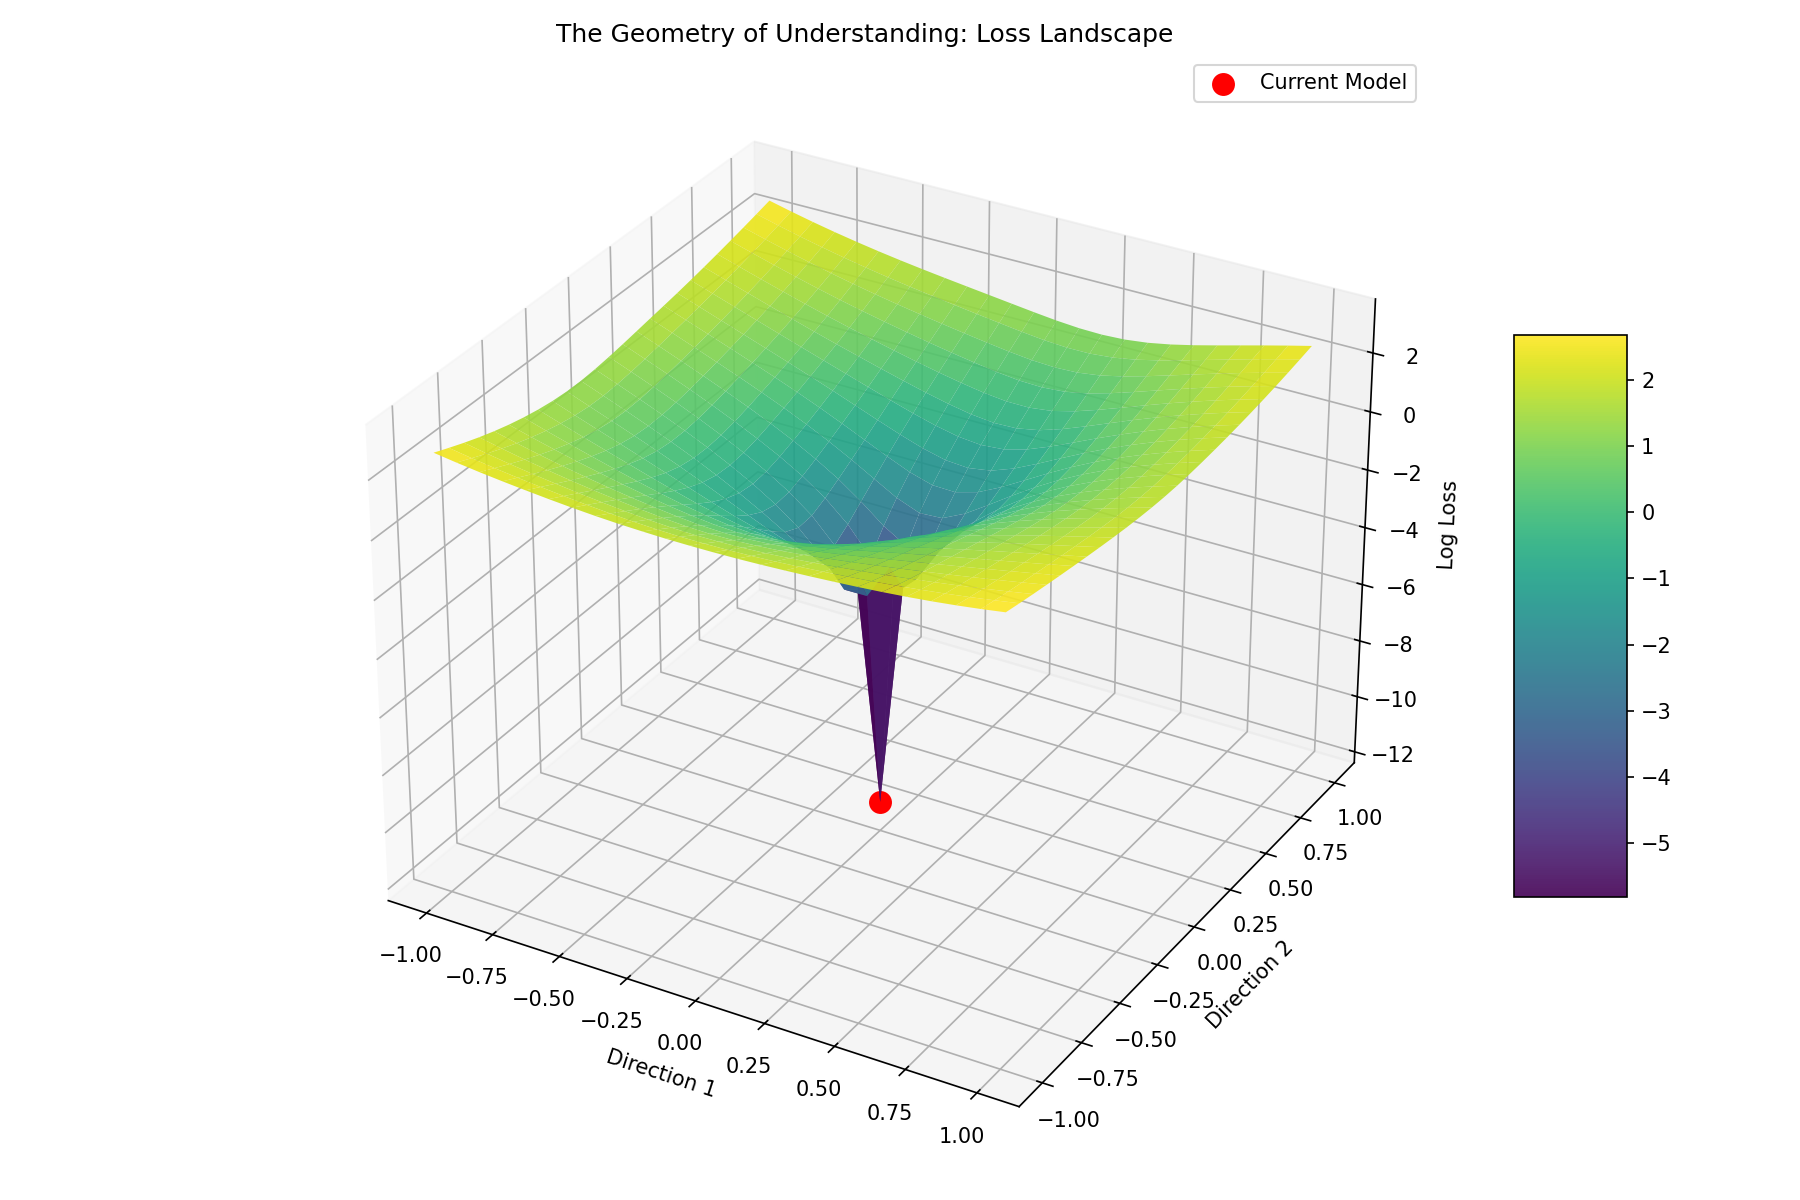
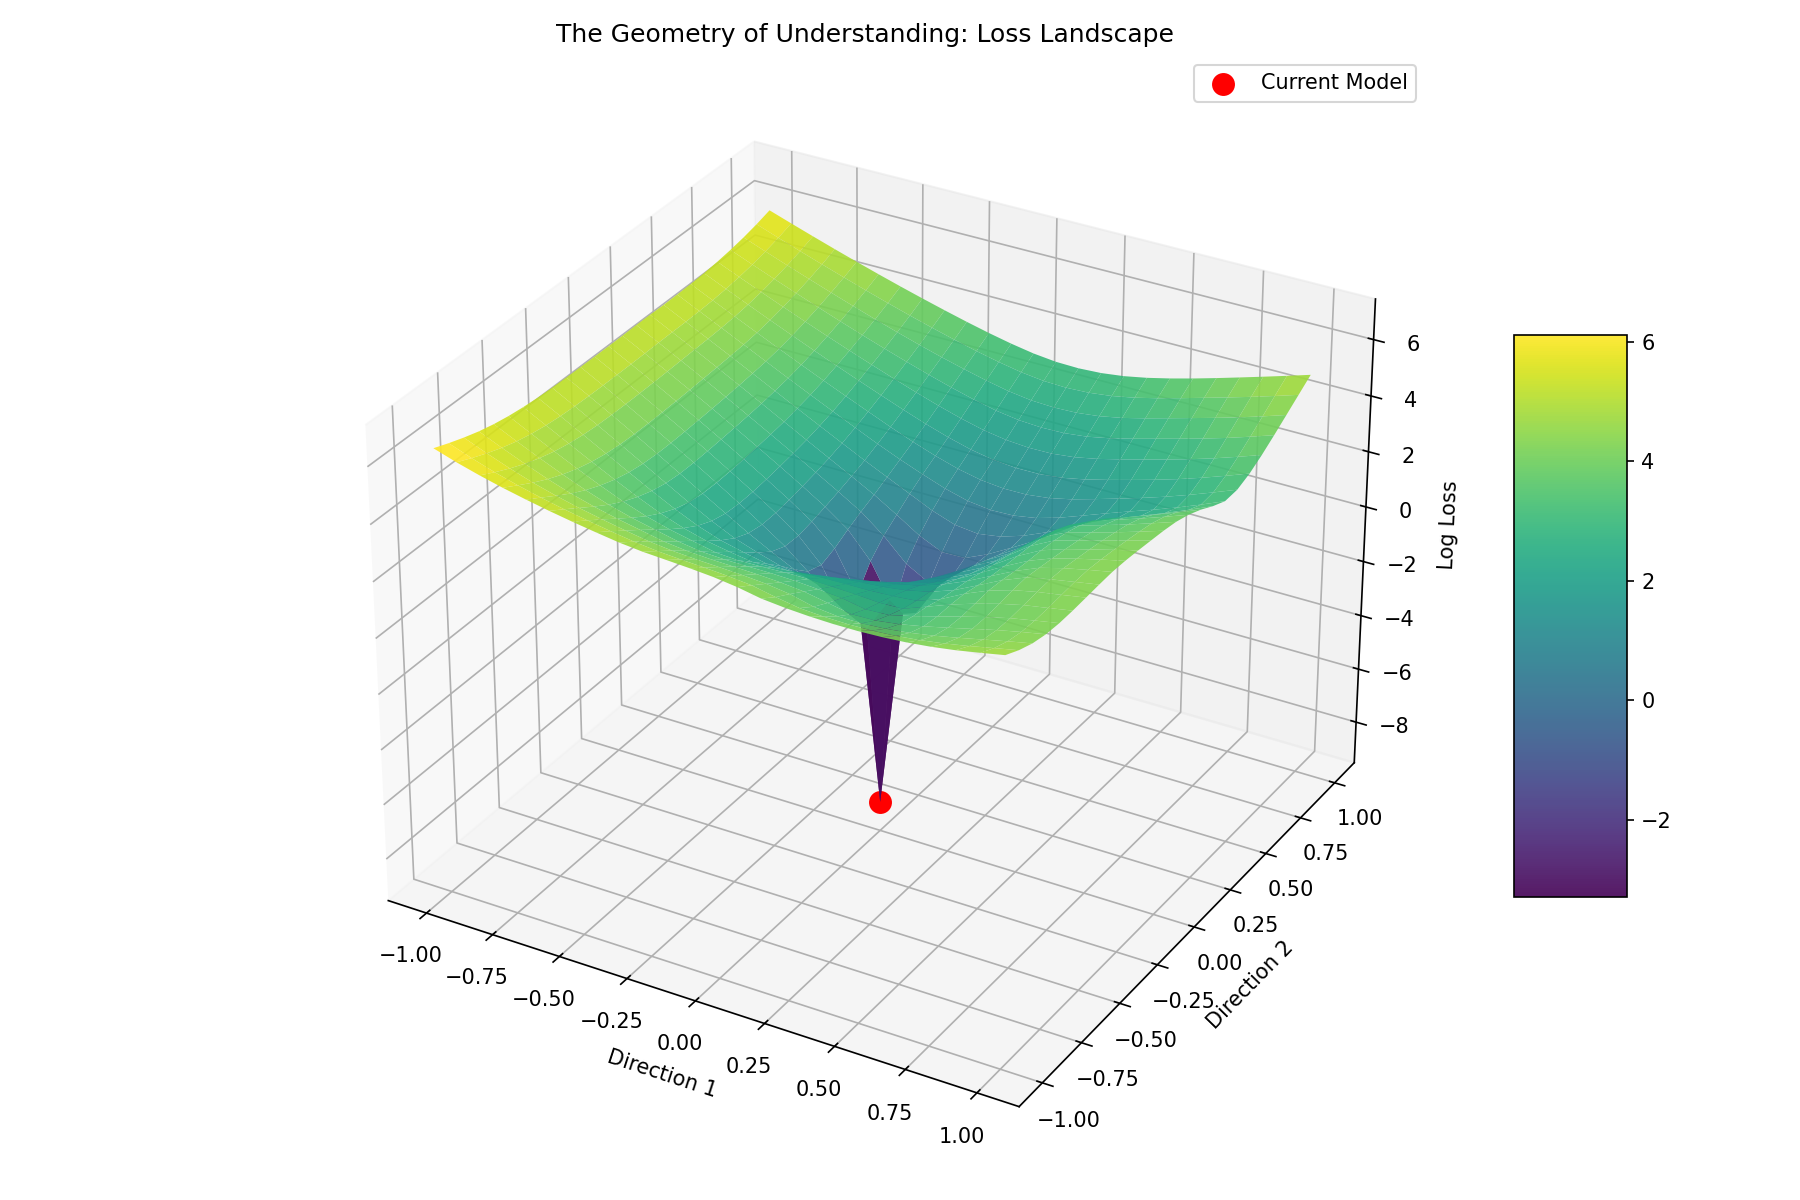
generalized config directories

diff --git a/scripts/deep_interp.py b/scripts/deep_interp.py
@@ -1,78 +1,125 @@
+import sys
+import os
 import torch
 import numpy as np
 import pandas as pd
 import matplotlib.pyplot as plt
-import os
+
+# --- STANDARD HEADER START ---
+# Add parent directory to path to find config.py and climate_nn.py
+sys.path.append(os.path.abspath(os.path.join(os.path.dirname(__file__), '..')))
+# --- STANDARD HEADER END ---
+
+# [NEW] Import paths and loaders from the central config/utility
+from config import MODEL_PATH, DATA_PATH, FIGURES_DIR
 from climate_nn import load_model_from_checkpoint
 
 def deep_interpretability_analysis():
-    checkpoint_path = '../networks/climate_model.pt'
-    if not os.path.exists(checkpoint_path):
-        print("Model file not found.")
+    # 1. Validation of Paths
+    if not os.path.exists(MODEL_PATH):
+        print(f"Model file not found at: {MODEL_PATH}")
         return
 
-    csv_path = '../training_sets/ebm_0d_model_v1_climate_data_1M.csv'
-    if not os.path.exists(csv_path):
-        print("Model file not found.")
+    if not os.path.exists(DATA_PATH):
+        print(f"Data file not found at: {DATA_PATH}")
         return
 
-    # 1. Load Model and Data
+    # 2. Load Model
     try:
-        model, checkpoint = load_model_from_checkpoint(checkpoint_path)
+        model, checkpoint = load_model_from_checkpoint(MODEL_PATH)
+        print(f"Loaded model from {MODEL_PATH}")
     except Exception as e:
         print(f"Error loading model: {e}")
         return
 
-    
-    df = pd.read_csv(csv_path).sample(10000) # Sample for speed
-    scaler_X = checkpoint['scaler_X']
-    X_scaled = torch.FloatTensor(scaler_X.transform(df[['Ts', 'log_pCO2', 'S0']].values))
+    # 3. Load Data
+    # Use pandas directly as in original script, but use DATA_PATH
+    try:
+        # Sample for speed, just like original
+        df = pd.read_csv(DATA_PATH).sample(10000, random_state=42) 
+    except Exception as e:
+        print(f"Error loading data CSV: {e}")
+        return
 
-    # 2. Get Activations for Layer 0 (Senses) and Layer 3 (Logic)
+    # Prepare inputs using the scaler saved with the model
+    scaler_X = checkpoint['scaler_X']
+    X_input = df[['Ts', 'log_pCO2', 'S0']].values
+    X_scaled = torch.FloatTensor(scaler_X.transform(X_input))
+
+    # 4. Get Activations
+    # We need 'relu_0' (Layer 1 sensors) and 'relu_3' (Deep Logic)
     with torch.no_grad():
         acts = model.get_hidden_activations(X_scaled)
     
     # --- PART 1: SCATTER PLOTS (The Shape of a Law) ---
     fig, (ax1, ax2) = plt.subplots(1, 2, figsize=(14, 5))
     
-    # Plot Neuron 3 (Your Ice Detector) vs Albedo
-    ax1.scatter(df['Albedo'], acts['relu_0'][:, 3], alpha=0.4, s=2, color='blue')
+    # Retrieve activations (converting to numpy)
+    layer0_acts = acts['relu_0'].numpy()
+    
+    # Plot Neuron 3 (Ice Detector) vs Albedo
+    ax1.scatter(df['Albedo'], layer0_acts[:, 3], alpha=0.4, s=2, color='blue')
     ax1.set_title("Neuron 3 Activation vs. Physical Albedo")
     ax1.set_xlabel("True Albedo (EBM Law)")
     ax1.set_ylabel("Neuron 3 'Firing' Strength")
     
-    # Plot Neuron 0 (Your Greenhouse Sensor) vs Emissivity
-    ax2.scatter(df['Emissivity'], acts['relu_0'][:, 0], alpha=0.4, s=2, color='red')
+    # Plot Neuron 0 (Greenhouse Sensor) vs Emissivity
+    ax2.scatter(df['Emissivity'], layer0_acts[:, 0], alpha=0.4, s=2, color='red')
     ax2.set_title("Neuron 0 Activation vs. Physical Emissivity")
     ax2.set_xlabel("True Emissivity (EBM Law)")
     ax2.set_ylabel("Neuron 0 'Firing' Strength")
     
     plt.tight_layout()
-    plt.savefig('figures/neuron_scatter_shapes.png')
-    print("Saved scatter plots to figures/neuron_scatter_shapes.png")
+    scatter_path = os.path.join(FIGURES_DIR, 'neuron_scatter_shapes.png')
+    plt.savefig(scatter_path)
+    print(f"Saved scatter plots to {scatter_path}")
 
     # --- PART 2: THE DEEP LAYER CORRELATION ---
-    # We repeat your heatmap logic but for 'relu_3'
+    # We repeat your heatmap logic but for 'relu_3' (Layer 4)
+    if 'relu_3' not in acts:
+        print("Warning: 'relu_3' not found in activations. Your model might be shallower than expected.")
+        return
+
     deep_acts = acts['relu_3'].numpy()
+    n_neurons = deep_acts.shape[1]
+    
     results = []
-    for i in range(8):
+    for i in range(n_neurons):
+        # Calculate correlations with ground truth physics
+        a = deep_acts[:, i]
+        
+        # Handle dead neurons (constant output) to avoid division by zero
+        if np.std(a) < 1e-9:
+            c_ts, c_alb, c_emiss, c_ntoa = 0,0,0,0
+        else:
+            c_ts = np.corrcoef(a, df['Ts'])[0,1]
+            c_alb = np.corrcoef(a, df['Albedo'])[0,1]
+            c_emiss = np.corrcoef(a, df['Emissivity'])[0,1]
+            c_ntoa = np.corrcoef(a, df['N_toa'])[0,1]
+            
         results.append({
             'neuron': i,
-            'corr_Ts': np.corrcoef(deep_acts[:, i], df['Ts'])[0,1],
-            'corr_Albedo': np.corrcoef(deep_acts[:, i], df['Albedo'])[0,1],
-            'corr_Emissivity': np.corrcoef(deep_acts[:, i], df['Emissivity'])[0,1],
-            'corr_N_toa': np.corrcoef(deep_acts[:, i], df['N_toa'])[0,1]
+            'corr_Ts': c_ts,
+            'corr_Albedo': c_alb,
+            'corr_Emissivity': c_emiss,
+            'corr_N_toa': c_ntoa
         })
     
     df_deep = pd.DataFrame(results)
+    
     plt.figure(figsize=(8, 6))
     plt.imshow(df_deep[['corr_Ts', 'corr_Albedo', 'corr_Emissivity', 'corr_N_toa']].values, 
                cmap='RdBu_r', vmin=-1, vmax=1, aspect='auto')
     plt.colorbar(label='Correlation')
     plt.xticks(range(4), ['Ts', 'Albedo', 'Emissivity', 'N_toa'])
+    plt.yticks(range(n_neurons))
+    plt.xlabel("Physical Variable")
+    plt.ylabel("Neuron Index")
     plt.title('DEEP LAYER (relu_3) Specialization\n(Note the increased complexity)')
-    plt.savefig('figures/deep_layer_correlations.png')
-    print("Saved deep correlation map to figures/deep_layer_correlations.png")
+    
+    heatmap_path = os.path.join(FIGURES_DIR, 'deep_layer_correlations.png')
+    plt.savefig(heatmap_path)
+    print(f"Saved deep correlation map to {heatmap_path}")
 
 if __name__ == "__main__":
     deep_interpretability_analysis()

diff --git a/scripts/loss_landscape.py b/scripts/loss_landscape.py
@@ -1,11 +1,14 @@
+import sys
 import torch
 import copy
 import numpy as np
 import matplotlib.pyplot as plt
 from torch.utils.data import DataLoader
 import os
+sys.path.append(os.path.abspath(os.path.join(os.path.dirname(__file__), '..')))
 
 # Import the model structure from your other script
+from config import MODEL_PATH, DATA_PATH, FIGURES_DIR
 from climate_nn import load_model_from_checkpoint, load_and_split_data
 
 def get_random_direction(model):
@@ -130,26 +133,28 @@ def plot_landscape_contour(alphas, betas, loss_surface, savepath):
     print(f"Saved contour map to {savepath}")
 
 if __name__ == "__main__":
-    # Setup
-    CSV_PATH = "../training_sets/ebm_0d_model_v1_climate_data_1M.csv"
-    checkpoint_path = '../networks/climate_model.pt'
-    
-    # 1. Load Data
-    print("Loading data...")
-    if not os.path.exists(CSV_PATH):
-        raise FileNotFoundError(f"{CSV_PATH} not found. Run climate_nn.py first.")
+    # 1. Load Data using Global Config Path
+    print(f"Loading data from {DATA_PATH}...")
+    if not os.path.exists(DATA_PATH):
+        print(f"Error: Data file not found at {DATA_PATH}")
+        sys.exit(1)
 
-    _, val_ds = load_and_split_data(CSV_PATH)
+    # We only need validation data to check the landscape quality
+    _, val_ds = load_and_split_data(DATA_PATH)
     # Use a subset of validation data for faster plotting
     val_loader = DataLoader(val_ds, batch_size=5000, shuffle=False)
     
-    # 2. Load Your Model
-    print("Loading model...")
-     try:
-        model, checkpoint = load_model_from_checkpoint(checkpoint_path)
+    # 2. Load Model using Global Config Path
+    print(f"Loading model from {MODEL_PATH}...")
+    if not os.path.exists(MODEL_PATH):
+        print(f"Error: Model file not found at {MODEL_PATH}")
+        sys.exit(1)
+
+    try:
+        model, checkpoint = load_model_from_checkpoint(MODEL_PATH)
     except Exception as e:
         print(f"Error loading model: {e}")
-        return
+        sys.exit(1)
 
     
     # 3. Compute Landscape
@@ -157,5 +162,6 @@ if __name__ == "__main__":
     alphas, betas, Z = compute_loss_surface(model, val_loader, range_val=1.0, steps=25)
     
     # 4. Visualize
-    plot_landscape_3d(alphas, betas, Z, '../figures/landscape_3d.png')
-    plot_landscape_contour(alphas, betas, Z, '../figures/landscape_contour.png')
+    # Use global FIGURES_DIR for saving
+    plot_landscape_3d(alphas, betas, Z, os.path.join(FIGURES_DIR, 'landscape_3d.png'))
+    plot_landscape_contour(alphas, betas, Z, os.path.join(FIGURES_DIR, 'landscape_contour.png'))

diff --git a/scripts/neuron_ablation.py b/scripts/neuron_ablation.py
@@ -3,18 +3,20 @@ import numpy as np
 import matplotlib.pyplot as plt
 import copy
 import os
+import sys
+sys.path.append(os.path.abspath(os.path.join(os.path.dirname(__file__), '..')))
+from config import MODEL_PATH, FIGURES_DIR
 from climate_nn import load_model_from_checkpoint
 
 def run_dual_ablation():
     # 1. Setup
-    checkpoint_path = '../networks/climate_model.pt'
-    if not os.path.exists(checkpoint_path):
-        print("Model file not found.")
+    if not os.path.exists(MODEL_PATH):
+        print(f"Model file not found at: {MODEL_PATH}")
         return
 
     # Load Model & Scalers
     try:
-        model, checkpoint = load_model_from_checkpoint(checkpoint_path)
+        model_base, checkpoint = load_model_from_checkpoint(MODEL_PATH)
     except Exception as e:
         print(f"Error loading model: {e}")
         return
@@ -71,8 +73,10 @@ def run_dual_ablation():
     plt.title('Mechanistic Interpretability: Impact of Targetted Neuron Removal')
     plt.legend()
     plt.grid(True, alpha=0.2)
-    plt.savefig('figures/dual_ablation_results.png')
+    save_path = os.path.join(FIGURES_DIR, 'dual_ablation_results.png')
+    plt.savefig(save_path)
+    print(f"Saved ablation response curve to {save_path}")
     plt.show()
 
 if __name__ == "__main__":
-    run_dual_surgery()
+    run_dual_ablation()

diff --git a/scripts/trace_circuit.py b/scripts/trace_circuit.py
@@ -1,17 +1,19 @@
 import torch
 import os
 import pandas as pd
+import sys
+sys.path.append(os.path.abspath(os.path.join(os.path.dirname(__file__), '..')))
+from config import MODEL_PATH, FIGURES_DIR
 from climate_nn import load_model_from_checkpoint
 
 def trace_circuit():
-    checkpoint_path = '../networks/climate_model.pt'
-    if not os.path.exists(checkpoint_path):
-        print("Model file not found.")
+    if not os.path.exists(MODEL_PATH):
+        print(f"Model file not found at: {MODEL_PATH}")
         return
 
     # 1. Load the model
     try:
-        model, checkpoint = load_model_from_checkpoint(checkpoint_path)
+        model, checkpoint = load_model_from_checkpoint(MODEL_PATH)
     except Exception as e:
         print(f"Error loading model: {e}")
         return

diff --git a/config.py b/config.py
@@ -7,7 +7,7 @@ import os
 # These settings define the architecture for NEW models you train.
 DEFAULT_MODEL_CONFIG = {
     'input_dim': 3,
-    'hidden_dims': [8, 8, 8, 8],
+    'hidden_dims': [4, 4, 4, 4],
     'output_dim': 3,
     'activation': 'ReLU'  # easy toggle: 'Tanh', 'GELU', 'Sigmoid'
 }
@@ -18,8 +18,8 @@ DEFAULT_MODEL_CONFIG = {
 # Change these filenames to switch the entire lab's focus 
 # without editing individual analysis scripts.
 
-ACTIVE_MODEL_FILENAME = 'climate_model.pt'
-ACTIVE_DATA_FILENAME = 'ebm_0d_model_v1_climate_data_1M.csv'
+ACTIVE_MODEL_FILENAME = 'ebm_0d_model_v1_nn.pt'
+ACTIVE_DATA_FILENAME = 'ebm_0d_model_v1_climate_data.csv'
 
 # =========================================================
 # 3. AUTOMATIC PATH GENERATION (The Address Book)

diff --git a/scripts/inspect_neuron_3.py b/scripts/inspect_neuron_3.py
@@ -1,16 +1,17 @@
 import torch
 import os
+ys.path.append(os.path.abspath(os.path.join(os.path.dirname(__file__), '..')))
+from config import MODEL_PATH, FIGURES_DIR
 from climate_nn import load_model_from_checkpoint
 
 def inspect_neuron_3():
-    checkpoint_path = '../networks/climate_model.pt'    
-    if not os.path.exists(checkpoint_path):
-        print("Error: Model file not found.")
+    if not os.path.exists(MODEL_PATH):
+        print(f"Model file not found at: {MODEL_PATH}")
         return
 
     # 1. Load the model
     try:
-        model, checkpoint = load_model_from_checkpoint(checkpoint_path)
+        model, checkpoint = load_model_from_checkpoint(MODEL_PATH)
     except Exception as e:
         print(f"Error loading model: {e}")
         return

diff --git a/scripts/inspect_output_connection.py b/scripts/inspect_output_connection.py
@@ -1,16 +1,17 @@
 import torch
 import os
+sys.path.append(os.path.abspath(os.path.join(os.path.dirname(__file__), '..')))
+from config import MODEL_PATH, FIGURES_DIR
 from climate_nn import load_model_from_checkpoint
 
 def inspect_output_connection():
-    checkpoint_path = '../networks/climate_model.pt'
-    if not os.path.exists(checkpoint_path):
-        print("Model file not found.")
+    if not os.path.exists(MODEL_PATH):
+        print(f"Model file not found at: {MODEL_PATH}")
         return
 
     # 1. Load the model
     try:
-        model, checkpoint = load_model_from_checkpoint(checkpoint_path)
+        model, checkpoint = load_model_from_checkpoint(MODEL_PATH)
     except Exception as e:
         print(f"Error loading model: {e}")
         return

diff --git a/scripts/trace_greenhouse_circuit.py b/scripts/trace_greenhouse_circuit.py
@@ -1,15 +1,17 @@
 import torch
 import os
+sys.path.append(os.path.abspath(os.path.join(os.path.dirname(__file__), '..')))
+from config import MODEL_PATH, FIGURES_DIR
 from climate_nn import load_model_from_checkpoint
 
+
 def trace_greenhouse_circuit():
-    checkpoint_path = '../networks/climate_model.pt'
-    if not os.path.exists(checkpoint_path):
-        print("Model file not found.")
+    if not os.path.exists(MODEL_PATH):
+        print(f"Model file not found at: {MODEL_PATH}")
         return
     
     try:
-        model, checkpoint = load_model_from_checkpoint(checkpoint_path)
+        model, checkpoint = load_model_from_checkpoint(MODEL_PATH)
     except Exception as e:
         print(f"Error loading model: {e}")
         return

diff --git a/scripts/inspect_greenhouse_sensors.py b/scripts/inspect_greenhouse_sensors.py
@@ -1,15 +1,17 @@
 import torch
 import os
+import sys
+sys.path.append(os.path.abspath(os.path.join(os.path.dirname(__file__), '..')))
+from config import MODEL_PATH, FIGURES_DIR
 from climate_nn import load_model_from_checkpoint
 
 def inspect_greenhouse_sensors():
-    checkpoint_path = '../networks/climate_model.pt'
-    if not os.path.exists(checkpoint_path):
+    if not os.path.exists(MODEL_PATH):
         print("Model file not found.")
         return
 
     try:
-        model, checkpoint = load_model_from_checkpoint(checkpoint_path)
+        model, checkpoint = load_model_from_checkpoint(MODEL_PATH)
     except Exception as e:
         print(f"Error loading model: {e}")
         return

diff --git a/scripts/plot_neuron_3_response.py b/scripts/plot_neuron_3_response.py
@@ -68,7 +68,7 @@ def plot_neuron_response():
     
     plt.tight_layout()
     save_path = os.path.join(FIGURES_DIR, 'neuron_3_response_curve.png')
-    plt.savefig(savepath)
+    plt.savefig(save_path)
     print(f"Saved neuron response curve to {save_path}")
 
 if __name__ == "__main__":
